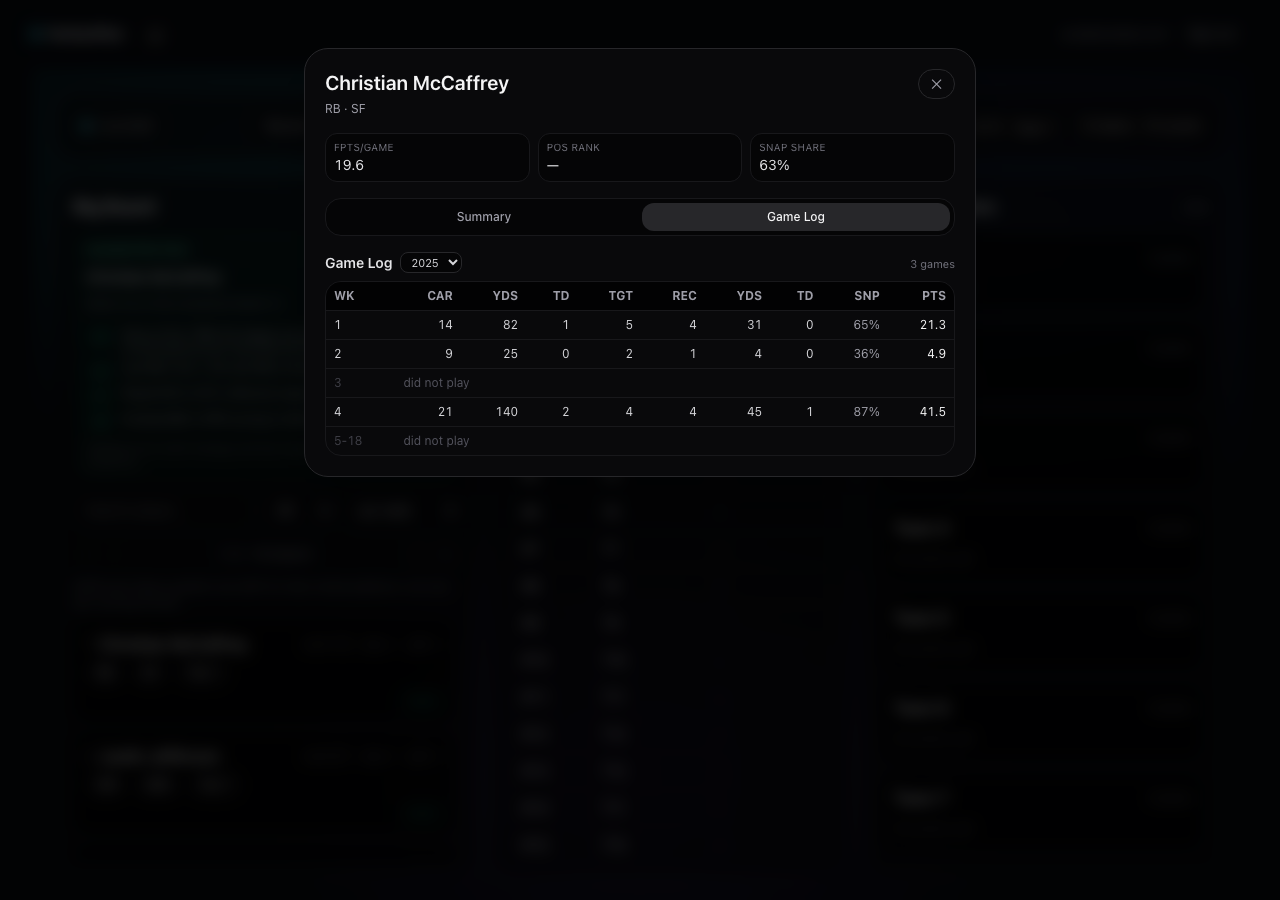
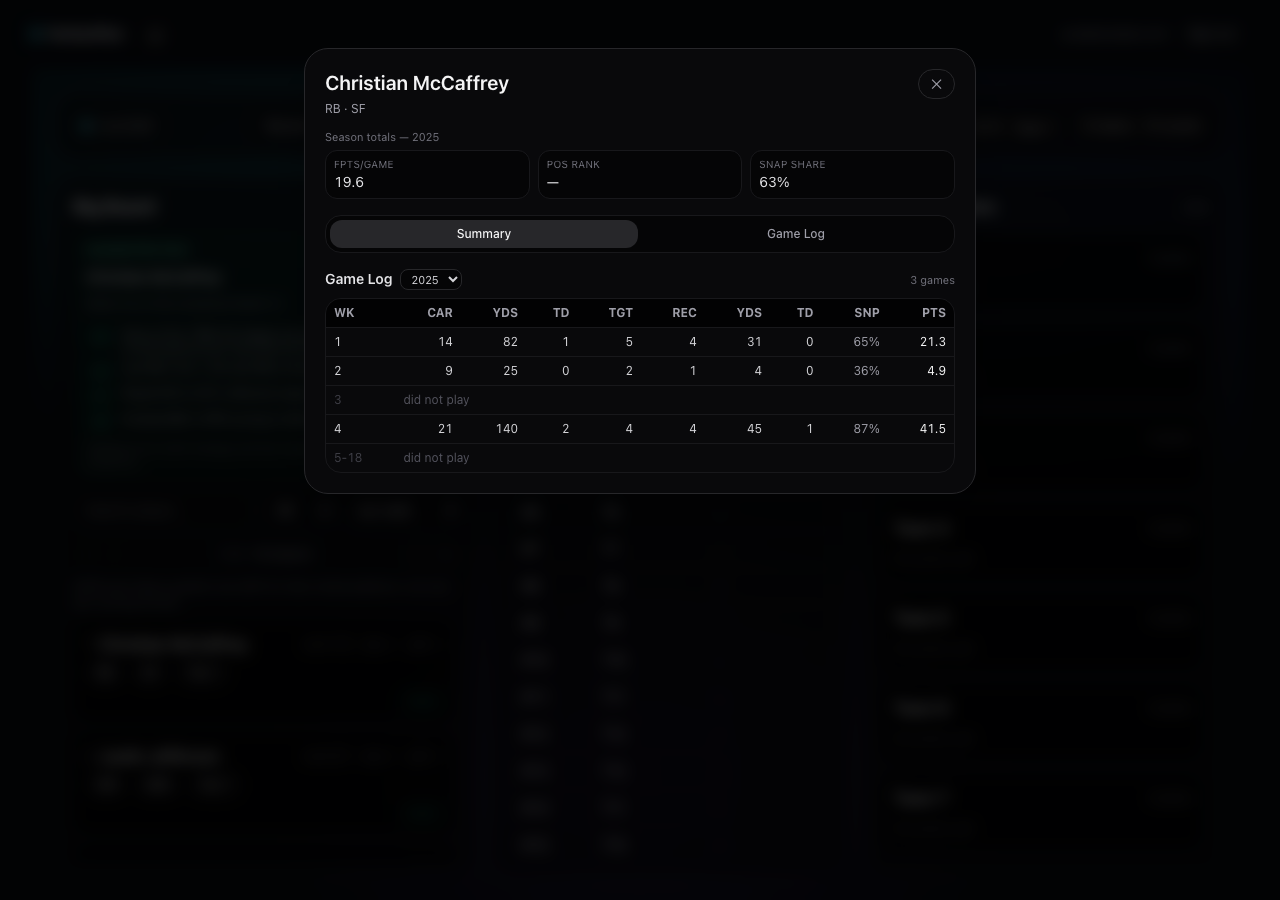
fix: charts that were wrong but rendered
Four Important findings from the whole-branch review, all of the same class:
the chart drew something, so nothing errored and no count assertion noticed.

A negative week -- a lost fumble is -2 -- computed height as
max(baseline - y, 0) and rendered nothing, which reads as "did not play". The
mark was in the DOM and not on the screen. Bars now draw from the zero line
in either direction, and the domain floors at the data's own minimum.

Snap share auto-scaled to each player's own peak, so a 16% ceiling and a 96%
ceiling were the identical line touching the top of the box. It is a bounded
percentage and now has a fixed 0-100 domain.

The weekly-points bars were hard-coded to PPR beneath a format-aware KPI row,
so a standard league read "FPTS/GAME 9.0" above weeks averaging 15. Both now
route through POINTS_FIELD.

The KPI trio carried no season while everything below it did -- the same
"which year am I reading" problem this redesign exists to fix, reintroduced
one row higher. It now says "Season totals -- 2025".

Also: a chart whose rows carry no snap counts said nothing at all; it now
says so, rather than leaving the empty box the all-zero note exists to
prevent.

diff --git a/frontend/src/components/draft/WeeklyChart.jsx b/frontend/src/components/draft/WeeklyChart.jsx
@@ -43,16 +43,26 @@ function xFor(wk, totalWeeks) {
  * `label`: short caption, expected to name the season.
  * `testId`: data-testid on the chart's own container.
  */
-export function WeeklyChart({ rows, valueOf, kind, weeks = 18, label, testId }) {
+export function WeeklyChart({ rows, valueOf, kind, weeks = 18, label, testId, domainMax }) {
   const points = (rows || [])
     .map((row) => ({ wk: row.wk, value: valueOf(row) }))
     .filter((p) => typeof p.value === "number" && Number.isFinite(p.value));
 
-  // Math.max(1, ...) rather than Math.max(...): an all-zero season (or an
-  // empty one) must not divide by zero, and a floor of 1 keeps a real zero
-  // plotted flush against the baseline instead of undefined.
-  const maxValue = Math.max(1, ...points.map((p) => p.value));
-  const yFor = (value) => BASELINE - (value / maxValue) * PLOT_HEIGHT;
+  // `domainMax` fixes the top of the scale for a bounded measure. Snap share
+  // is a percentage: auto-scaling it to each player's own peak drew a 16%
+  // ceiling and a 96% ceiling as the identical line touching the top of the
+  // box, so a fourth-stringer and a bell-cow looked the same. Points have no
+  // natural ceiling and keep auto-scaling.
+  const values = points.map((p) => p.value);
+  const maxValue = domainMax ?? Math.max(1, ...values);
+  // Weekly points go negative -- a lost fumble is -2 -- and a bar computed as
+  // max(baseline - y, 0) rendered nothing at all for those weeks, which reads
+  // as "did not play". The floor is the data's own minimum so a negative week
+  // is drawn, downward, from the zero line.
+  const minValue = Math.min(0, ...values);
+  const span = maxValue - minValue || 1;
+  const yFor = (value) => BASELINE - ((value - minValue) / span) * PLOT_HEIGHT;
+  const zeroY = yFor(0);
 
   const color = kind === "bars" ? "#22d3ee" : "#a78bfa";
   const barWidth = 6;
@@ -64,6 +74,10 @@ export function WeeklyChart({ rows, valueOf, kind, weeks = 18, label, testId }) 
   // conflate them. So say it in words. The marks are still rendered beneath,
   // because the count of them is the season he actually played.
   const allZero = points.length > 0 && points.every((pt) => pt.value === 0);
+  // Rows exist but none of them carries this measure -- snap counts are not
+  // recorded for every player. An axis with no marks and no words is the same
+  // empty box the all-zero note exists to prevent, for the opposite reason.
+  const noneRecorded = points.length === 0 && (rows || []).length > 0;
 
   return (
     <div data-testid={testId} className="relative">
@@ -74,12 +88,14 @@ export function WeeklyChart({ rows, valueOf, kind, weeks = 18, label, testId }) 
         no horizontal overflow, and the viewBox's own margins leave room for
         the outermost marks instead of clipping a bar sitting at week 1 or 18.
       */}
-      {allZero && (
+      {(allZero || noneRecorded) && (
         <div
           data-testid="chart-all-zero"
           className="pointer-events-none absolute inset-x-0 bottom-0 top-5 flex items-center justify-center text-xs text-zinc-500"
         >
-          {`No ${kind === "bars" ? "points" : "snaps"} in ${points.length} games`}
+          {noneRecorded
+            ? `${kind === "bars" ? "Points" : "Snap counts"} not recorded`
+            : `No ${kind === "bars" ? "points" : "snaps"} in ${points.length} games`}
         </div>
       )}
       <svg
@@ -109,8 +125,11 @@ export function WeeklyChart({ rows, valueOf, kind, weeks = 18, label, testId }) 
         {kind === "bars" ? (
           points.map((p) => {
             const x = xFor(p.wk, weeks) - barWidth / 2;
-            const y = yFor(p.value);
-            const height = Math.max(BASELINE - y, 0);
+            const v = yFor(p.value);
+            // From the zero line, up or down, so a negative week is visible
+            // as a negative week rather than as nothing.
+            const y = Math.min(v, zeroY);
+            const height = Math.abs(v - zeroY);
             return (
               <rect
                 key={p.wk}

diff --git a/frontend/tests/player.spec.js b/frontend/tests/player.spec.js
@@ -53,6 +53,52 @@ test.describe("the player page", () => {
     await expect(page.getByTestId("kpi-fpts")).toContainText("12.0");
   });
 
+  // A lost fumble is -2. A bar computed from max(baseline - y, 0) rendered
+  // nothing for those weeks -- a mark present in the DOM and absent from the
+  // screen, which reads as "did not play". Count assertions sailed over it.
+  test("a negative week is drawn, not swallowed", async ({ page }) => {
+    await mockPlayer(page, {
+      gameLogs: { 2025: [
+        { wk: 1, pts_ppr: 12, off_snp: 30, tm_off_snp: 60 },
+        { wk: 2, pts_ppr: -2, off_snp: 20, tm_off_snp: 60 },
+      ] },
+      gameLogThrough: { 2025: 18 },
+    });
+    await page.goto(`/player/${PLAYER.id}?format=ppr`);
+
+    const negative = page.getByTestId("weekly-points-chart").locator('[data-week="2"]');
+    await expect(negative).toHaveCount(1);
+    // Rendered, not merely present: height is the whole point.
+    const h = Number(await negative.getAttribute("height"));
+    expect(h).toBeGreaterThan(0);
+  });
+
+  // Snap share is a percentage, so the scale must be the percentage's own --
+  // not each player's peak, which drew 16% and 96% as the identical line.
+  test("snap share is scaled against 100, not the player's own best week", async ({ page }) => {
+    await mockPlayer(page, {
+      gameLogs: { 2025: [{ wk: 1, pts_ppr: 0, off_snp: 6, tm_off_snp: 60 }] },
+      gameLogThrough: { 2025: 18 },
+    });
+    await page.goto(`/player/${PLAYER.id}?format=ppr`);
+
+    const mark = page.getByTestId("snap-share-chart").locator('[data-week="1"]');
+    await expect(mark).toHaveCount(1);
+    // 10% must sit near the bottom of the plot. Auto-scaled it would be at
+    // the very top, since it is this player's maximum.
+    const cy = Number(await mark.getAttribute("cy"));
+    expect(cy).toBeGreaterThan(60);
+  });
+
+  // The KPI trio comes from `stats`, whose season the coverage rule flips
+  // mid-autumn. Unlabelled, it recreates the "which year am I reading?"
+  // problem this redesign exists to fix, one row higher.
+  test("the KPI row says which season it describes", async ({ page }) => {
+    await mockPlayer(page, { statsSeason: 2025 });
+    await page.goto(`/player/${PLAYER.id}?format=ppr`);
+    await expect(page.getByTestId("kpi-season")).toContainText("2025");
+  });
+
   // Fifteen bars of zero height is mathematically right and reads as an empty
   // box -- indistinguishable from having no data at all. Those are different
   // claims, and conflating them is the exact failure this app once spent a day

diff --git a/frontend/src/components/draft/PlayerDetail.jsx b/frontend/src/components/draft/PlayerDetail.jsx
@@ -5,6 +5,7 @@ import { columnsFor, statValue, snapShare, withByeGaps, gapLabel } from "./gameL
 import { computeKpis } from "./playerKpis";
 import { StartingPoint } from "./StartingPoint";
 import { WeeklyChart } from "./WeeklyChart";
+import { POINTS_FIELD } from "./playerKpis";
 
 const SEASON_WEEKS = 18;
 
@@ -156,7 +157,18 @@ export function PlayerDetail({
       actually did is a fact for everyone with a game log, including a
       fourth-string tight end who never scores.
     */}
-    <div data-testid="player-kpis" className="mt-4 grid grid-cols-3 gap-2">
+    {/*
+      The season these three describe. They come from `stats`, whose year the
+      coverage rule picks and flips mid-autumn -- which is the very "you
+      cannot tell which year you are reading" problem this redesign set out to
+      fix, and it would have been reintroduced one row higher.
+    */}
+    {p.statsSeason ? (
+      <div data-testid="kpi-season" className="mt-3 text-[11px] text-zinc-500">
+        Season totals — {p.statsSeason}
+      </div>
+    ) : null}
+    <div data-testid="player-kpis" className="mt-1 grid grid-cols-3 gap-2">
       <Stat
         label="FPTS/GAME"
         testId="kpi-fpts"
@@ -231,7 +243,11 @@ export function PlayerDetail({
                 kind="bars"
                 rows={log}
                 weeks={through}
-                valueOf={(row) => statValue(row, "pts_ppr")}
+                // The league's own scoring, matching the KPI row above. The
+                // bars were hard-coded to PPR, so a standard league read
+                // "FPTS/GAME 9.0" above weeks averaging 15 -- two scoring
+                // systems, unlabelled, an inch apart.
+                valueOf={(row) => statValue(row, POINTS_FIELD[format] ?? "pts_ppr")}
               />
             </div>
             <div className="rounded-2xl border border-zinc-900 bg-black/40 px-3 py-2">
@@ -242,6 +258,9 @@ export function PlayerDetail({
                 rows={log}
                 weeks={through}
                 valueOf={snapShare}
+                // 0-100, fixed: auto-scaling drew a 16% ceiling and a 96%
+                // ceiling as the same line at the top of the box.
+                domainMax={100}
               />
             </div>
           </div>
